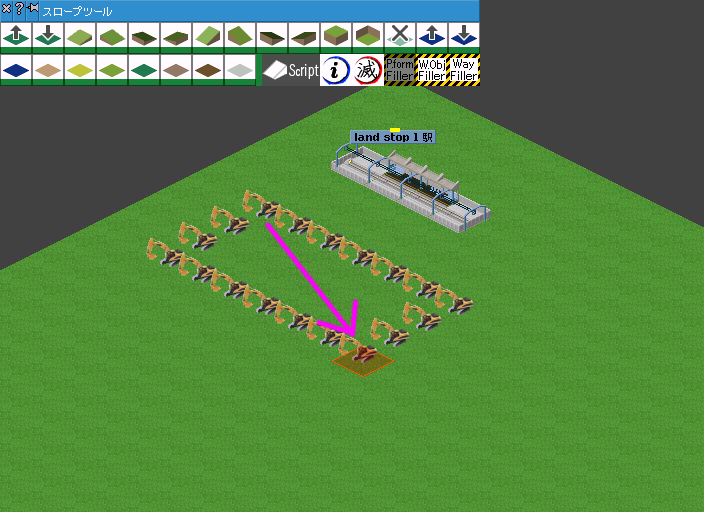
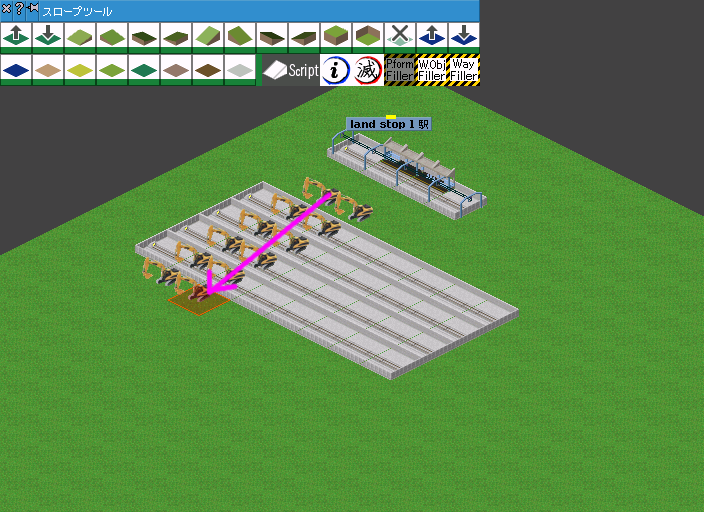
v3RC ホーム一括設置で軌道を敷設しないように変更

diff --git a/platform_filler/readme.md b/platform_filler/readme.md
@@ -1,27 +1,21 @@
 
 # 説明
 
-指定範囲を指定した軌道・駅を並べて埋めますスクリプトです。
-線路以外にも道路や滑走路、運河など全タイプで使用可能です。
-
+指定範囲を指定した駅を並べて埋めるスクリプトです。
 
 # 使い方
 
 - ツールーバーのplatform_fillerをクリックしてスクリプトを起動
 - マップ内の `[0,0,-2] - [10,10,2]` の範囲に建設したいプレーヤーで軌道と駅を設置する（1マス以上）
 - 敷設したい範囲をドラッグ
-- 選択範囲のうち長い辺に向かって軌道とホームが敷設されます
-- 選択範囲が正方形の場合、南北方向に向かって軌道が敷設されます
+- 選択範囲のうち敷設可能な軌道上にホームが敷設されます
 - ホームの設置順序は始点側から終点側へ向かって建設されます
 
 <img src="doc/1.png" >
 <img src="doc/2.png" >
+<img src="doc/3.png" >
 
 始点と終点を逆にするとホームの設置順序が変わります。
-
-<img src="doc/3.png" >
-<img src="doc/4.png" >
-
 
 # 導入
 
@@ -43,15 +37,6 @@ pakXYZ
 ┃   ┃   ┣━ description.tab
 ```
 
-## 使えない・注意が必要な種類
-
-- 送電線
-  - 軌道として認識されません
-- トンネル
-  - トンネル内で指定される軌道が選択されます
-- 橋
-  - 橋の速度と同じ軌道が選択されます（橋末端部分に地上軌道がある？）
-
 # スクリプトのパラメーター
 
 |変数名|デフォルト値|説明|
@@ -65,3 +50,10 @@ pakXYZ
 
 # ソース
 https://github.com/128na/sugoi-simutrans-squirrel-scripts
+
+# 更新履歴
+
+※バージョンはスクリプト集共通の値です。
+
+- v2 初版
+- v3 軌道を敷設せずホーム設置のみに変更

diff --git a/way_filler/readme.md b/way_filler/readme.md
@@ -56,3 +56,10 @@ pakXYZ
 
 # ソース
 https://github.com/128na/sugoi-simutrans-squirrel-scripts
+
+# 更新履歴
+
+※バージョンはスクリプト集共通の値です。
+
+- v1 初版
+- v2 処理を高速化

diff --git a/clear_force/readme.md b/clear_force/readme.md
@@ -38,3 +38,9 @@ pakXYZ
 
 # ソース
 https://github.com/128na/sugoi-simutrans-squirrel-scripts
+
+# 更新履歴
+
+※バージョンはスクリプト集共通の値です。
+
+- v2 初版

diff --git a/vehicle_info/readme.md b/vehicle_info/readme.md
@@ -33,3 +33,9 @@ pakXYZ
 
 # ソース
 https://github.com/128na/sugoi-simutrans-squirrel-scripts
+
+# 更新履歴
+
+※バージョンはスクリプト集共通の値です。
+
+- v3 初版

diff --git a/wayobj_filler/readme.md b/wayobj_filler/readme.md
@@ -52,3 +52,9 @@ pakXYZ
 
 # ソース
 https://github.com/128na/sugoi-simutrans-squirrel-scripts
+
+# 更新履歴
+
+※バージョンはスクリプト集共通の値です。
+
+- v3 初版
